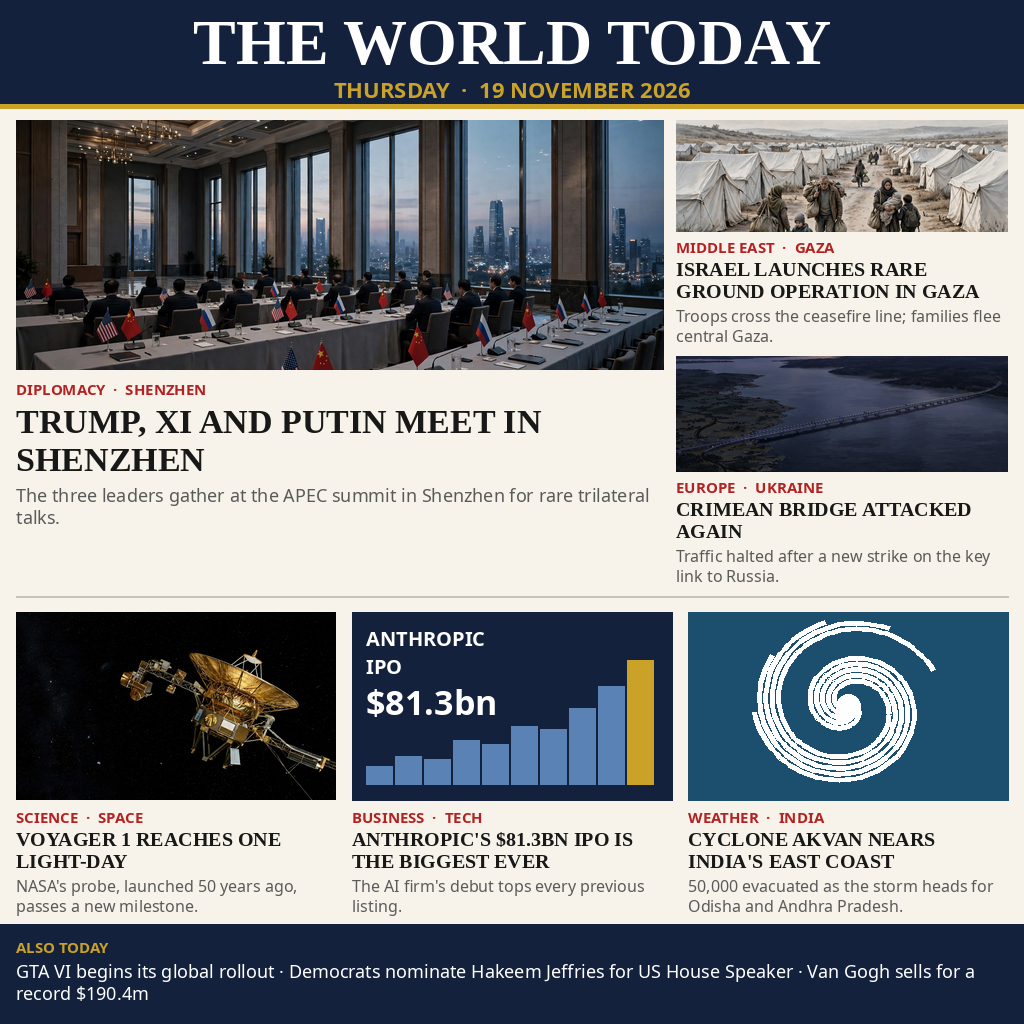
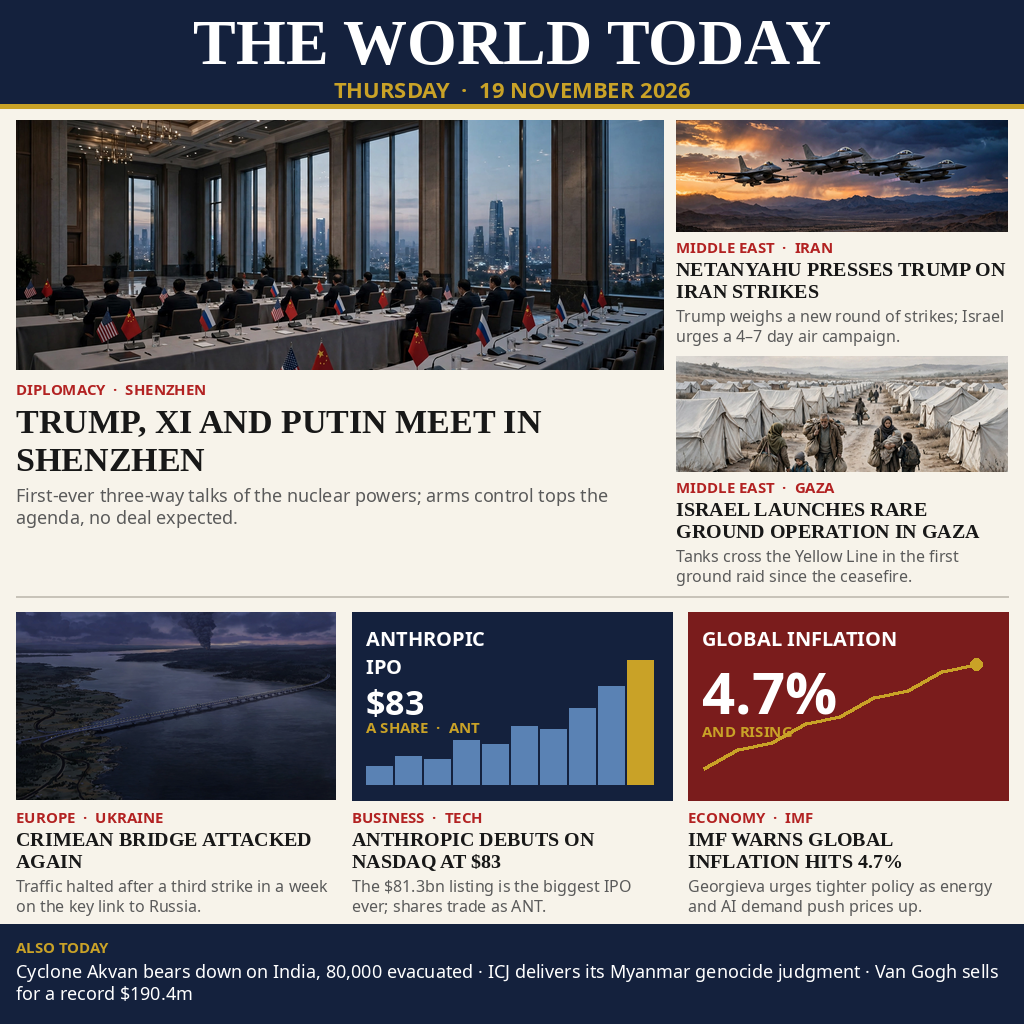
The World Today v2: Iran pressure, IMF 4.7%, sharper trilateral/Gaza/Crimea/IPO

diff --git a/main.ts b/main.ts
@@ -1,7 +1,11 @@
-// news-image-20261119 entry (Node 22, standard library only).
+// news-image-20261119 entry, v2 (Node 22, standard library only).
 // The entry is a single finished image, entry.png, composed for this bounty:
 // a front page summing up the world news of Thursday 19 November 2026.
-// This program just places that image where the grader reads it.
+// v2 refreshes the morning edition with the day's later reporting: the
+// Trump–Xi–Putin trilateral in Shenzhen, Netanyahu pressing Trump on Iran
+// strikes, Israel's ground operation in Gaza, the Crimean Bridge hit again,
+// Anthropic's Nasdaq debut at $83 a share, and the IMF's 4.7% inflation
+// warning. This program just places that image where the grader reads it.
 //
 // Run it outside the grader's container with:
 //   mkdir -p out && MAKEFUN_OUTPUT_DIR=out node main.ts
@@ -10,10 +14,17 @@ import { copyFileSync, mkdirSync } from "node:fs";
 import { join } from "node:path";
 
 const source = new URL("./entry.png", import.meta.url);
-const outDir = process.env.MAKEFUN_OUTPUT_DIR ?? "/output";
+
+// The grader sets MAKEFUN_OUTPUT_DIR; default to /output when it does not.
+function resolveOutDir() {
+  return process.env.MAKEFUN_OUTPUT_DIR ?? "/output";
+}
+
+const outDir = resolveOutDir();
 const target = join(outDir, "entry.png");
 
 // Make sure the output directory exists, so the program also works
 // when the caller did not create it first.
 mkdirSync(outDir, { recursive: true });
 copyFileSync(source, target);
+console.log(`wrote ${target}`);

diff --git a/README.md b/README.md
@@ -4,7 +4,7 @@
 [![rank](https://make.fun/badge/news-image-20261119/faisalajaah/news-image-20261119/rank.svg)](https://make.fun/bounty/news-image-20261119/leaderboard?utm_source=github&utm_medium=readme&utm_campaign=news-image-20261119)
 [![reward](https://make.fun/badge/news-image-20261119/faisalajaah/news-image-20261119/reward.svg)](https://make.fun/bounty/news-image-20261119?utm_source=github&utm_medium=readme&utm_campaign=news-image-20261119)
 
-A one-image front page summing up the world news of Thursday 19 November 2026: the Trump–Xi–Putin trilateral meeting in Shenzhen, Israel's rare ground operation in Gaza, the Crimean Bridge attacked again, Anthropic's $81.3bn record IPO, Voyager 1 reaching one light-day from Earth, and Cyclone Akvan bearing down on India's east coast — plus the day's other headlines in the footer.
+A one-image front page summing up the world news of Thursday 19 November 2026: the Trump–Xi–Putin trilateral meeting in Shenzhen, Netanyahu pressing Trump on Iran strikes, Israel's rare ground operation in Gaza, the Crimean Bridge attacked for a third time in a week, Anthropic's Nasdaq debut at $83 a share, and the IMF's warning that global inflation has hit 4.7% — plus the day's other headlines in the footer (Cyclone Akvan, the ICJ's Myanmar genocide judgment, the record Van Gogh sale).
 
 ## Run it
 
